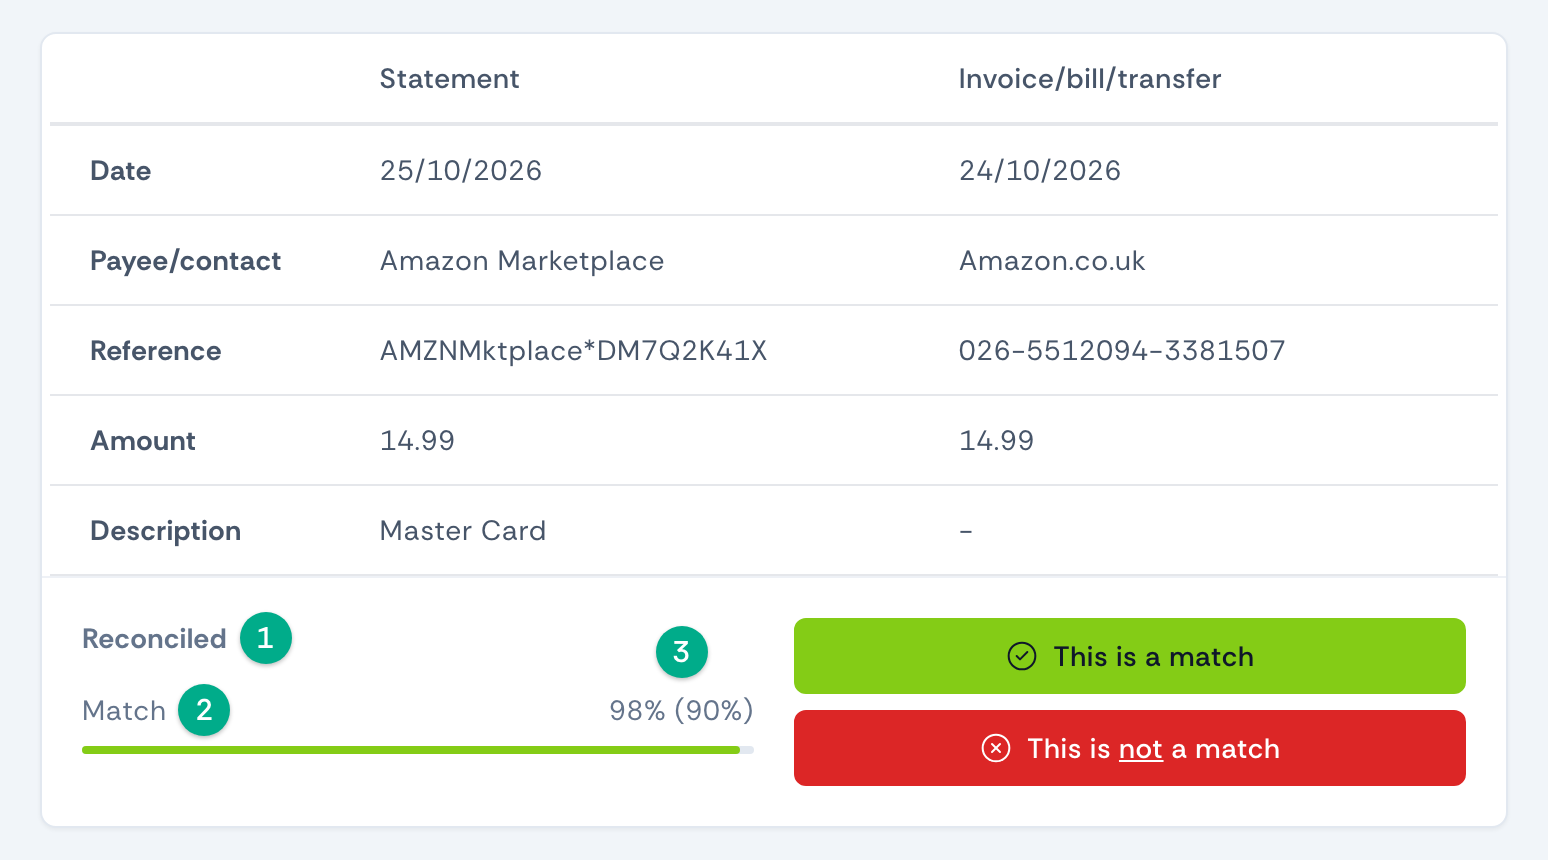
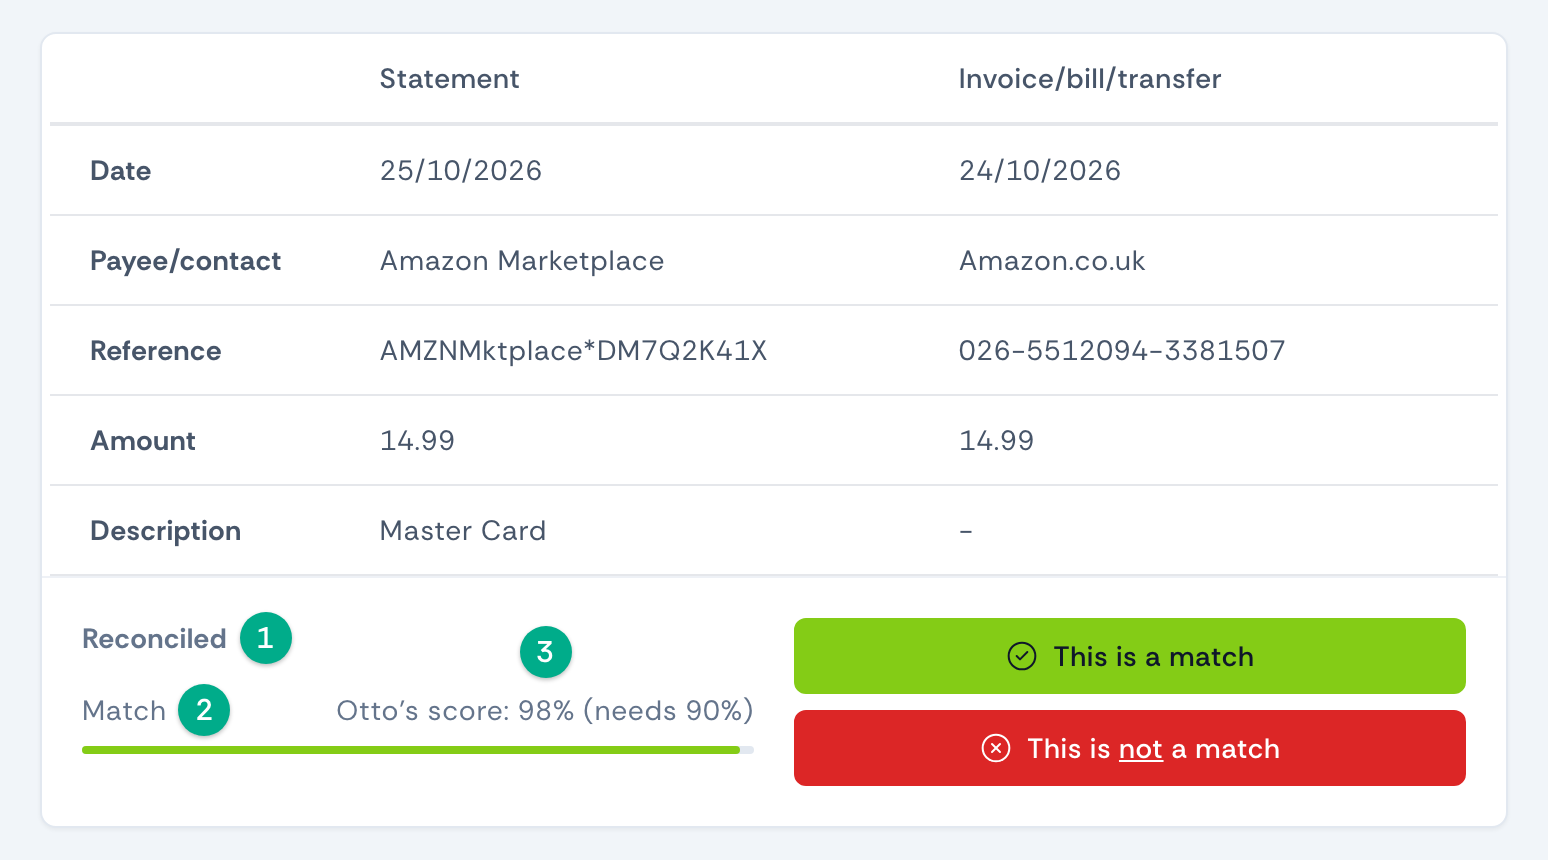
Describe the SmartMatch figure as Otto's score
The portal now shows "Otto's score: 98% (needs 90%)" instead of
"98% (90%)", and the figure is his score for the item being the match,
whichever decision he made. The guides said it was how confident he was
in his decision, which reads a low score on a non-match the wrong way.

- The "Skipped: Feedback given" reason now covers a "not a match" on
  the match Otto showed as well as on what he reconciled, and the
  feedback guide gains the case where he skipped and you agree. Either
  way he leaves the transaction alone from then on.
- Screenshots re-taken from the demo practice. The voice rule keeps
  "confidence" for the required level and "Otto's score" for the
  figure.

Publish only once the portal showing "Otto's score" is deployed.

Changed region(s): [[0.2171, 0.8163, 0.4341, 0.8465], [0.4031, 0.7256, 0.4651, 0.786], [0.3101, 0.7256, 0.3721, 0.786]]

diff --git a/.claude/rules/support-withotto-voice-bankrec.md b/.claude/rules/support-withotto-voice-bankrec.md
@@ -15,7 +15,7 @@ Bank Rec's SmartMatch is powered by machine learning models trained on each clie
 - **Otto is the subject for most actions:** "Otto reconciles matches", "he checks the bank transaction details", "he decides whether to reconcile".
 - **Mention ML and training in explanations of how SmartMatch works:** "SmartMatch is our intelligent reconciliation feature. It is powered by machine learning (ML) models that are trained on each of your clients to ensure Otto understands what he should _and_ **should not** reconcile."
 - **"We" for the team's role in training:** "We use 12 months of previous reconciliations...", "each fortnight we add to this by incorporating the latest reconciliations as well as feedback that you have provided".
-- **"Otto's confidence", "Otto's decisions"** when describing how sure he is about a match and what he decided. Confidence is the model's score for the match, not a feeling: see the persona rules in `.claude/rules/shared/voice-common.md`.
+- **"Otto's score", "Otto's decisions"** when describing the figure on a SmartMatch card and what he decided. The portal shows "Otto's score: 98% (needs 90%)": the score is for the item being the match, whichever decision he made, so a non-match always scores 50% or less. It is the model's output, not a feeling and not a measured chance, so don't call it a probability or the chance he is right. "Confidence" stays for the required level, the "Minimum SmartMatch confidence" setting: see the persona rules in `.claude/rules/shared/voice-common.md`.
 
 ## Bank Rec-specific terminology
 
@@ -27,7 +27,8 @@ Bank Rec's SmartMatch is powered by machine learning models trained on each clie
 | `reconcile`, `reconciliation`      | The core action. Use precisely.                                                              |
 | `match` / `non-match`              | Paired terms for Otto's decisions.                                                           |
 | `monitor mode` / `monitoring mode` | SmartMatch state where decisions are recorded but not applied.                               |
-| `confidence`                       | Otto's confidence score. Used with percentage values.                                        |
+| `confidence`                       | The required level: the "Minimum SmartMatch confidence" setting. Used with percentages.      |
+| `Otto's score`                     | The figure on a SmartMatch card, as the portal shows it.                                     |
 | `credits`                          | Billing unit. Reconciliations consume credits.                                               |
 | `practice-wide` / `client-level`   | Settings scopes. Hyphenated.                                                                 |
 | `machine learning (ML)`            | Acceptable in explanations of how SmartMatch works. Introduce the abbreviation on first use. |
